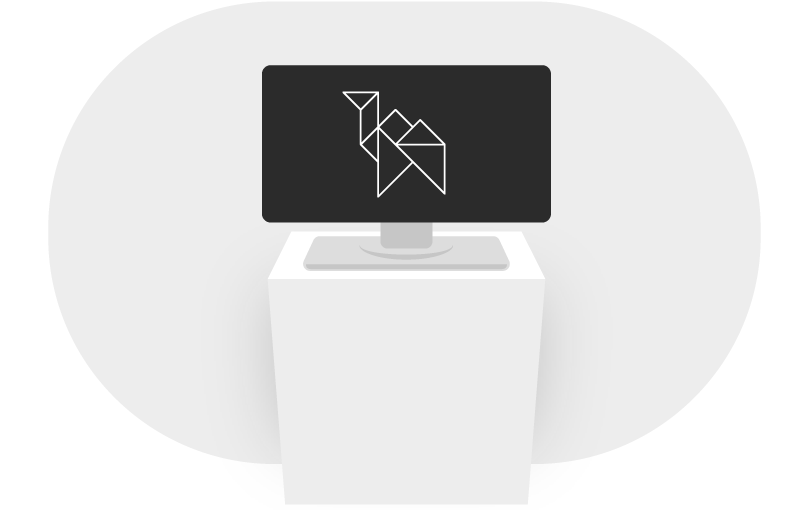
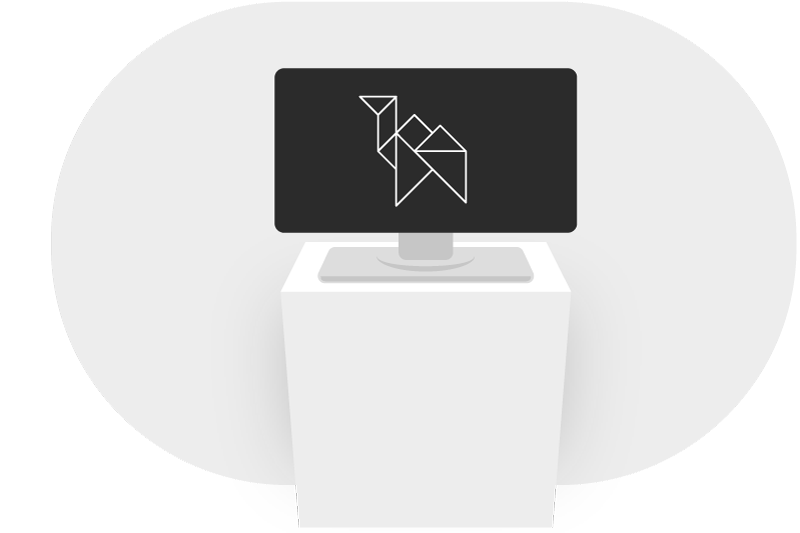
Chilled out the cube so that it just always animates now

diff --git a/dist/style.css b/dist/style.css
@@ -1,6 +1,4 @@
 :root {
-  --angle: "30deg";
-  --reverse-angle: "30deg";
   --virtual-progress: 0; }
 
 .spinner-wrapper {
@@ -14,9 +12,9 @@
     transform: rotateY(359deg) rotateX(90deg); } }
 
 .spinner {
-  transform: rotateY(var(--angle)) rotateX(90deg);
   height: 150px;
   width: 150px;
+  animation: spin 5s linear infinite;
   position: relative;
   top: 100px;
   transform-style: preserve-3d;
@@ -55,9 +53,9 @@
     transform: rotateY(90deg); }
   .spinner .mini-terminal {
     background: black;
-    transform: translateZ(75px) rotateX(-90deg) rotateY(var(--reverse-angle));
     position: absolute;
     box-sizing: border-box;
+    animation: innerSpin 5s linear infinite;
     left: 20%;
     top: 25%;
     width: 60%;
@@ -273,6 +271,9 @@ h1 + .section {
   margin-bottom: 10px;
   opacity: .5;
   background: white; }
+  .bundle h4 {
+    margin: 0 0 4px 0;
+    font-size: 1.05rem; }
   .bundle:last-child {
     margin-bottom: 0; }
   .bundle.selected {
@@ -281,7 +282,16 @@ h1 + .section {
     box-shadow: 0 2px 12px rgba(0, 0, 0, 0.1); }
   .bundle p {
     font-size: .9rem;
-    margin: 4px 0 0 0; }
+    margin: 0; }
+  .bundle input[checked] {
+    display: none; }
+  .bundle.selected input[checked] {
+    display: block; }
+  .bundle input {
+    position: absolute;
+    top: 13px;
+    left: 11px;
+    pointer-events: none; }
 
 @keyframes bundlePop {
   0% {
@@ -290,23 +300,6 @@ h1 + .section {
     transform: scale(0.98); }
   100% {
     transform: scale(1); } }
-
-.bundle input[checked] {
-  display: none; }
-
-.bundle.selected input[checked] {
-  display: block; }
-
-.bundle h4 {
-  margin: 0; }
-
-.bundle p {
-  margin: 0; }
-
-.bundle input {
-  position: absolute;
-  top: 12px;
-  left: 10px; }
 
 .cli-install {
   padding: 30px 25px 15px 25px;

diff --git a/app.js b/app.js
@@ -1,20 +1,18 @@
-// Set up platform toggle for the CLI command
-
+let root = document.documentElement;
 let platformToggles = document.querySelectorAll(".platform-picker span");
 let cliInputs = document.querySelectorAll(".cli-install input");
 let cliCopyButtons = document.querySelectorAll(".cli-install .cli-copy-icon");
 let defaultPlatform = 'Windows';
-cliCopyButtons.forEach(el => {
-  el.addEventListener("click", e => {
-    copyToClipboard(el);
-  });
-});
-
 let cliCommands = {
   'Linux' : 'sh <(curl -q https://platform.activestate.com/dl/cli/install.sh)',
   'Windows' : 'powershell -- sh <(curl -q https://platform.activestate.com/dl/cli/install.sh)'
 }
 
+cliCopyButtons.forEach(el => {
+  el.addEventListener("click", e => {
+    copyToClipboard(el);
+  });
+});
 
 const copyToClipboard = button => {
   let inputId = button.getAttribute("for");
@@ -36,7 +34,6 @@ const copyToClipboard = button => {
     console.log('Unable to copy: ', err)
   }
 }
-
 
 platformToggles.forEach(el => {
   el.addEventListener("click", e => {
@@ -65,21 +62,7 @@ const switchPlatform = platform => {
 
 switchPlatform(getOS());
 
-
-
-
-
-
-let root = document.documentElement;
-
-window.addEventListener("scroll", e => {
-  let deg = window.scrollY / 8;
-  root.style.setProperty('--angle', deg + "deg");
-  root.style.setProperty('--reverse-angle', -deg + "deg");
-});
-
-
-let buildRatio = size => {
+let buildThresholds = size => {
   let arr = [];
   for(var i = 0; i <= size; i++) {
     arr.push(i/size);
@@ -89,7 +72,7 @@ let buildRatio = size => {
 
 let options = {
   rootMargin: "200px 0px -200px 0px",
-  threshold: buildRatio(20) // 20 steps
+  threshold: buildThresholds(20) // 20 steps
 }
 
 let bar = document.querySelector(".build-progress-section .bar");

diff --git a/style.scss b/style.scss
@@ -1,6 +1,4 @@
 :root {
-  --angle: "30deg";
-  --reverse-angle: "30deg";
   --virtual-progress: 0;
 }
 
@@ -21,10 +19,10 @@
 $cubeSize: 150px;
 
 .spinner {
-  transform: rotateY(var(--angle)) rotateX(90deg);
+  // transform: rotateY(var(--angle)) rotateX(90deg);
   height: $cubeSize;
   width: $cubeSize;
-  // animation: spin 5s linear infinite;
+  animation: spin 5s linear infinite;
   position: relative;
   top:100px;
   transform-style: preserve-3d;
@@ -78,10 +76,10 @@ $cubeSize: 150px;
 
   .mini-terminal {
     background: black;
-    transform: translateZ($cubeSize / 2) rotateX(-90deg) rotateY(var(--reverse-angle)) ;
+    // transform: translateZ($cubeSize / 2) rotateX(-90deg) rotateY(var(--reverse-angle)) ;
     position: absolute;
     box-sizing: border-box;
-    // animation: innerSpin 5s linear infinite;
+    animation: innerSpin 5s linear infinite;
 
     left: 20%;
     top: 25%;
@@ -394,6 +392,11 @@ h1 + .section {
   opacity: .5;
   background: white;
 
+  h4 {
+    margin: 0 0 4px 0;
+    font-size: 1.05rem;
+  }
+
   &:last-child {
     margin-bottom: 0;
   }
@@ -406,9 +409,25 @@ h1 + .section {
 
   p {
     font-size: .9rem;
-    margin: 4px 0 0 0;
+    margin: 0;
   }
 
+
+  input[checked] {
+    display: none;
+  }
+
+
+  &.selected input[checked]{
+    display: block;
+  }
+
+  input {
+    position: absolute;
+    top: 13px;
+    left: 11px;
+    pointer-events: none;
+  }
 }
 
 
@@ -424,28 +443,6 @@ h1 + .section {
   }
 }
 
-.bundle input[checked] {
-  display: none;
-}
-
-
-.bundle.selected input[checked]{
-  display: block;
-}
-
-.bundle h4 {
-  margin: 0;
-}
-
-.bundle p {
-  margin: 0;
-}
-
-.bundle input {
-  position: absolute;
-  top: 12px;
-  left: 10px;
-}
 
 .cli-install {
   padding: 30px 25px 15px 25px;
